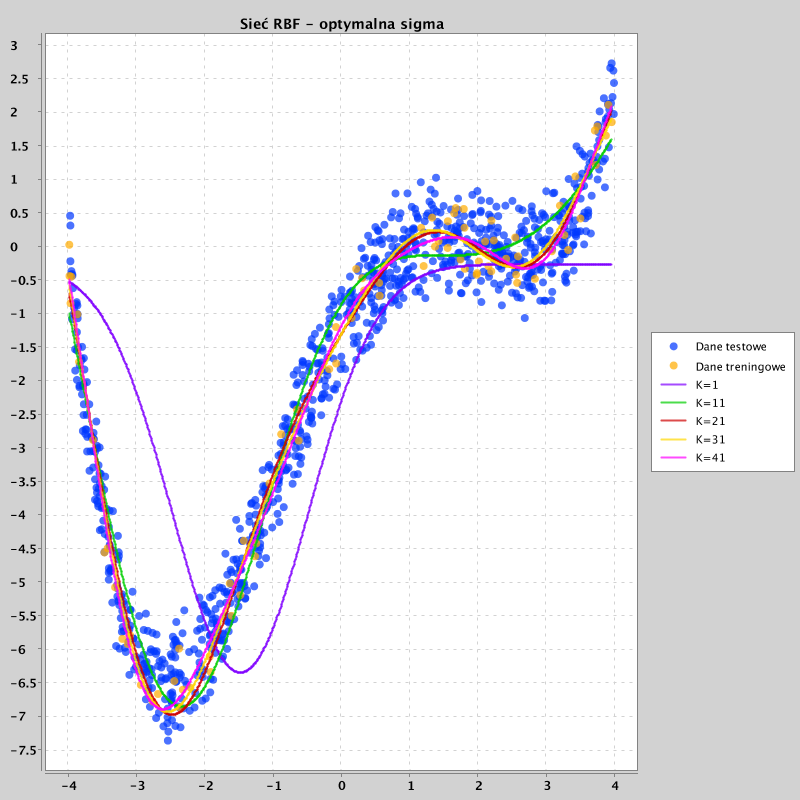
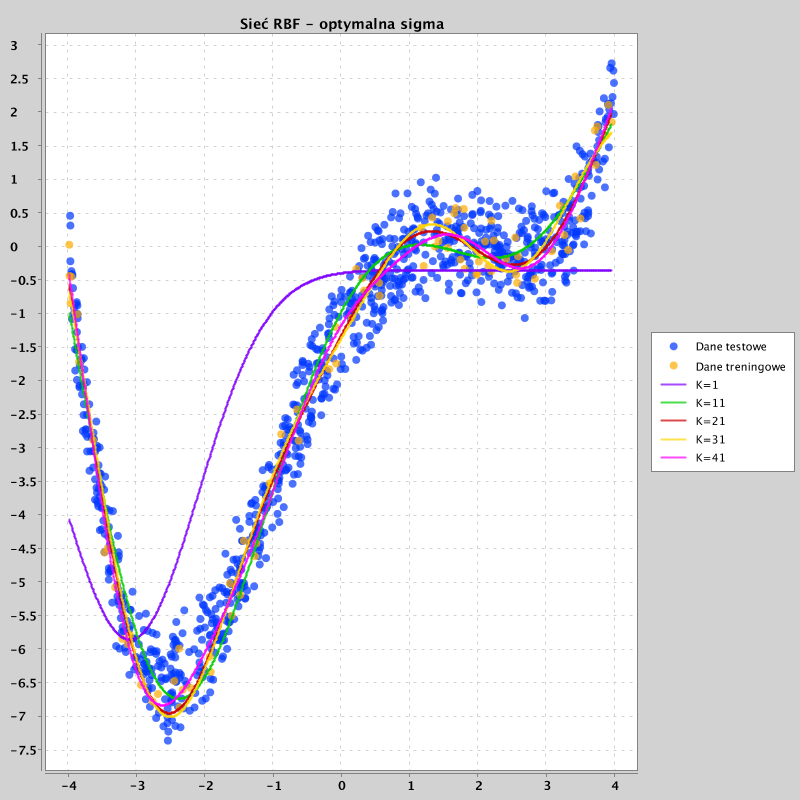
Regenerate data for modified learning parameters

diff --git a/src/main/kotlin/tasks/Approximation3/DifferentNeuronNumber1.kt b/src/main/kotlin/tasks/Approximation3/DifferentNeuronNumber1.kt
@@ -41,13 +41,13 @@ class DifferentNeuronNumber1 : Approximation3() {
 fun main() {
     val dnn = DifferentNeuronNumber1()
 
-    //val first = GlobalScope.async { dnn.chartOptimalSigma() }
-    //val second = GlobalScope.async { dnn.chartSmallSigma() }
+    val first = GlobalScope.async { dnn.chartOptimalSigma() }
+    val second = GlobalScope.async { dnn.chartSmallSigma() }
     val third = GlobalScope.async { dnn.chartBigSigma() }
 
     runBlocking {
-        //first.await()
-        //second.await()
-       third.await()
+        first.await()
+        second.await()
+        third.await()
     }
 }

diff --git a/src/main/kotlin/tasks/Approximation3/Approximation3.kt b/src/main/kotlin/tasks/Approximation3/Approximation3.kt
@@ -64,6 +64,6 @@ abstract class Approximation3 {
         return network
     }
 
-    open fun getDisplayIterations() = 500
+    open fun getDisplayIterations() = 5000
     open fun getTrainingIterations() = 20000
 }
